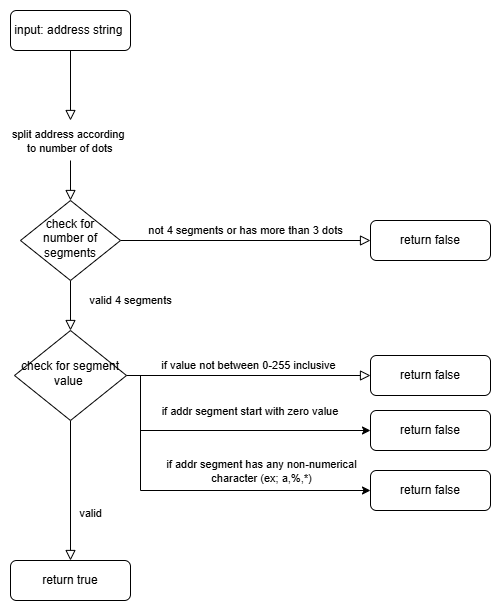
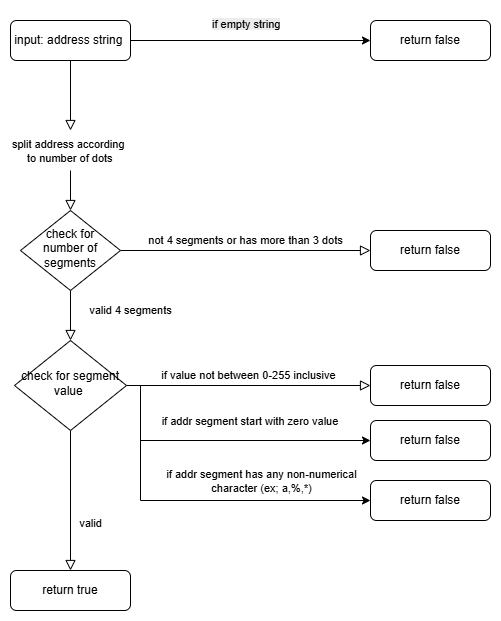
adding empt adrress validation and improve flowchart

diff --git a/ip_address_v4_checker/src/main/kotlin/ipv4_address_checker.kt b/ip_address_v4_checker/src/main/kotlin/ipv4_address_checker.kt
@@ -1,5 +1,8 @@
 fun isValidIpAddress(ip: String): Boolean {
-    var ipSegments = ip.split('.')
+    if (ip.isEmpty()){
+        return false
+    }
+    val ipSegments = ip.split('.')
     if (ipSegments.size != 4) {
 //        println("Invalid IP address; not 4 segments")
         return false
